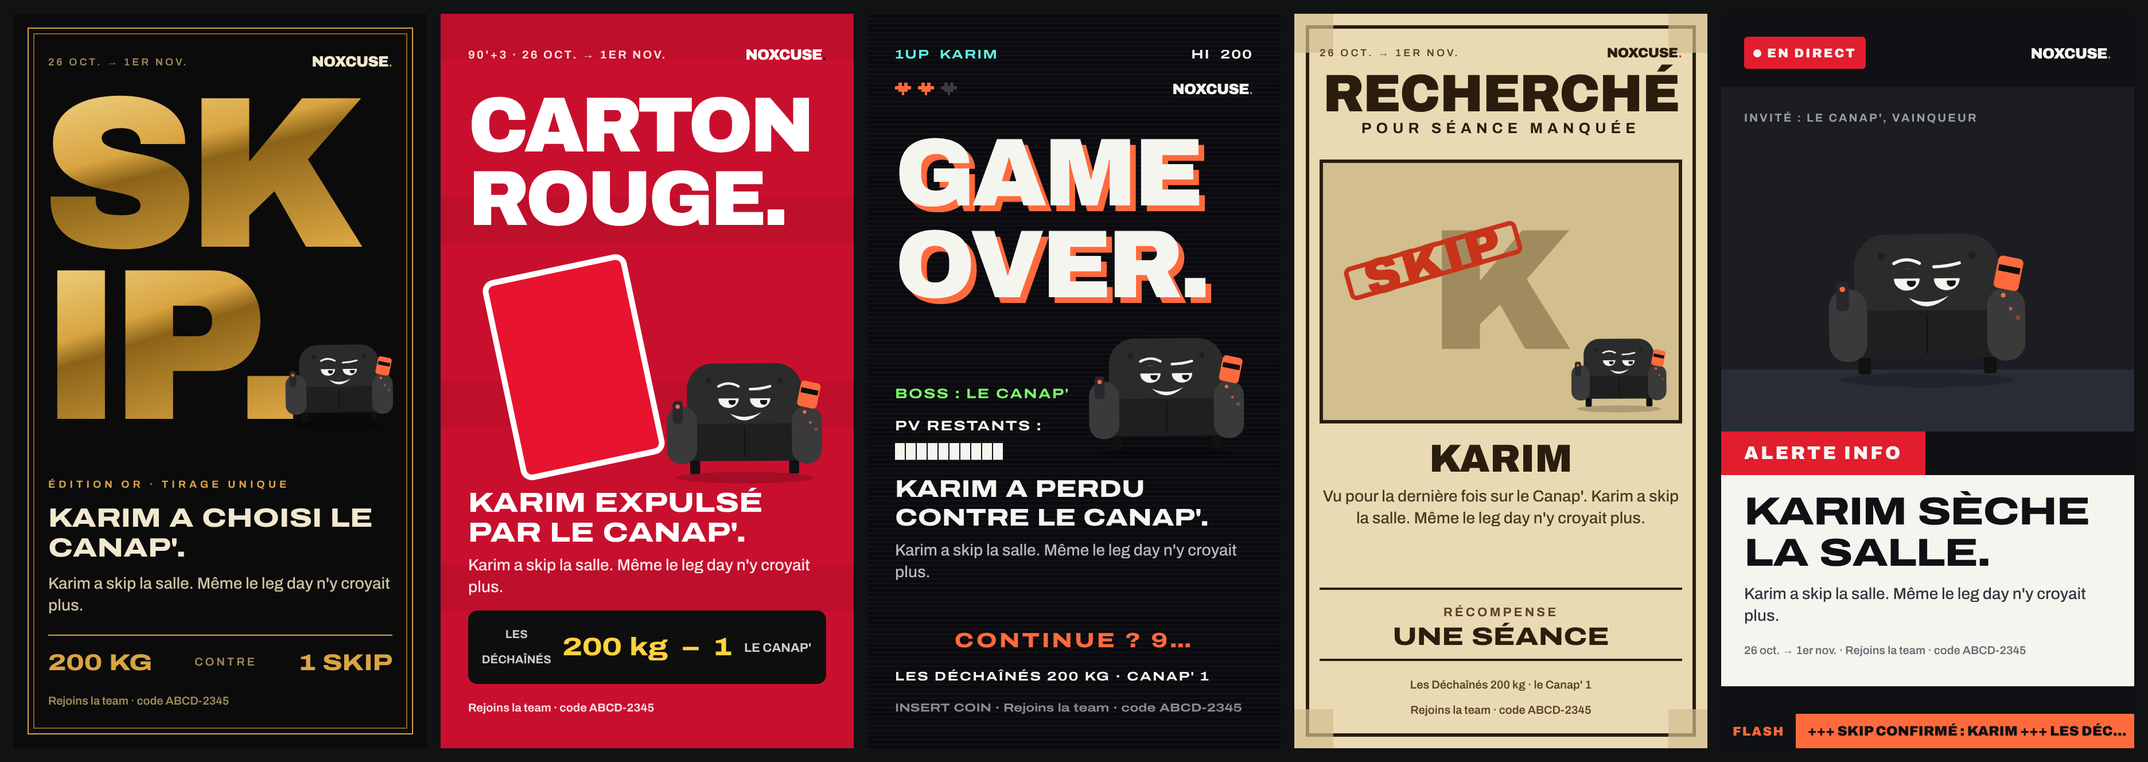
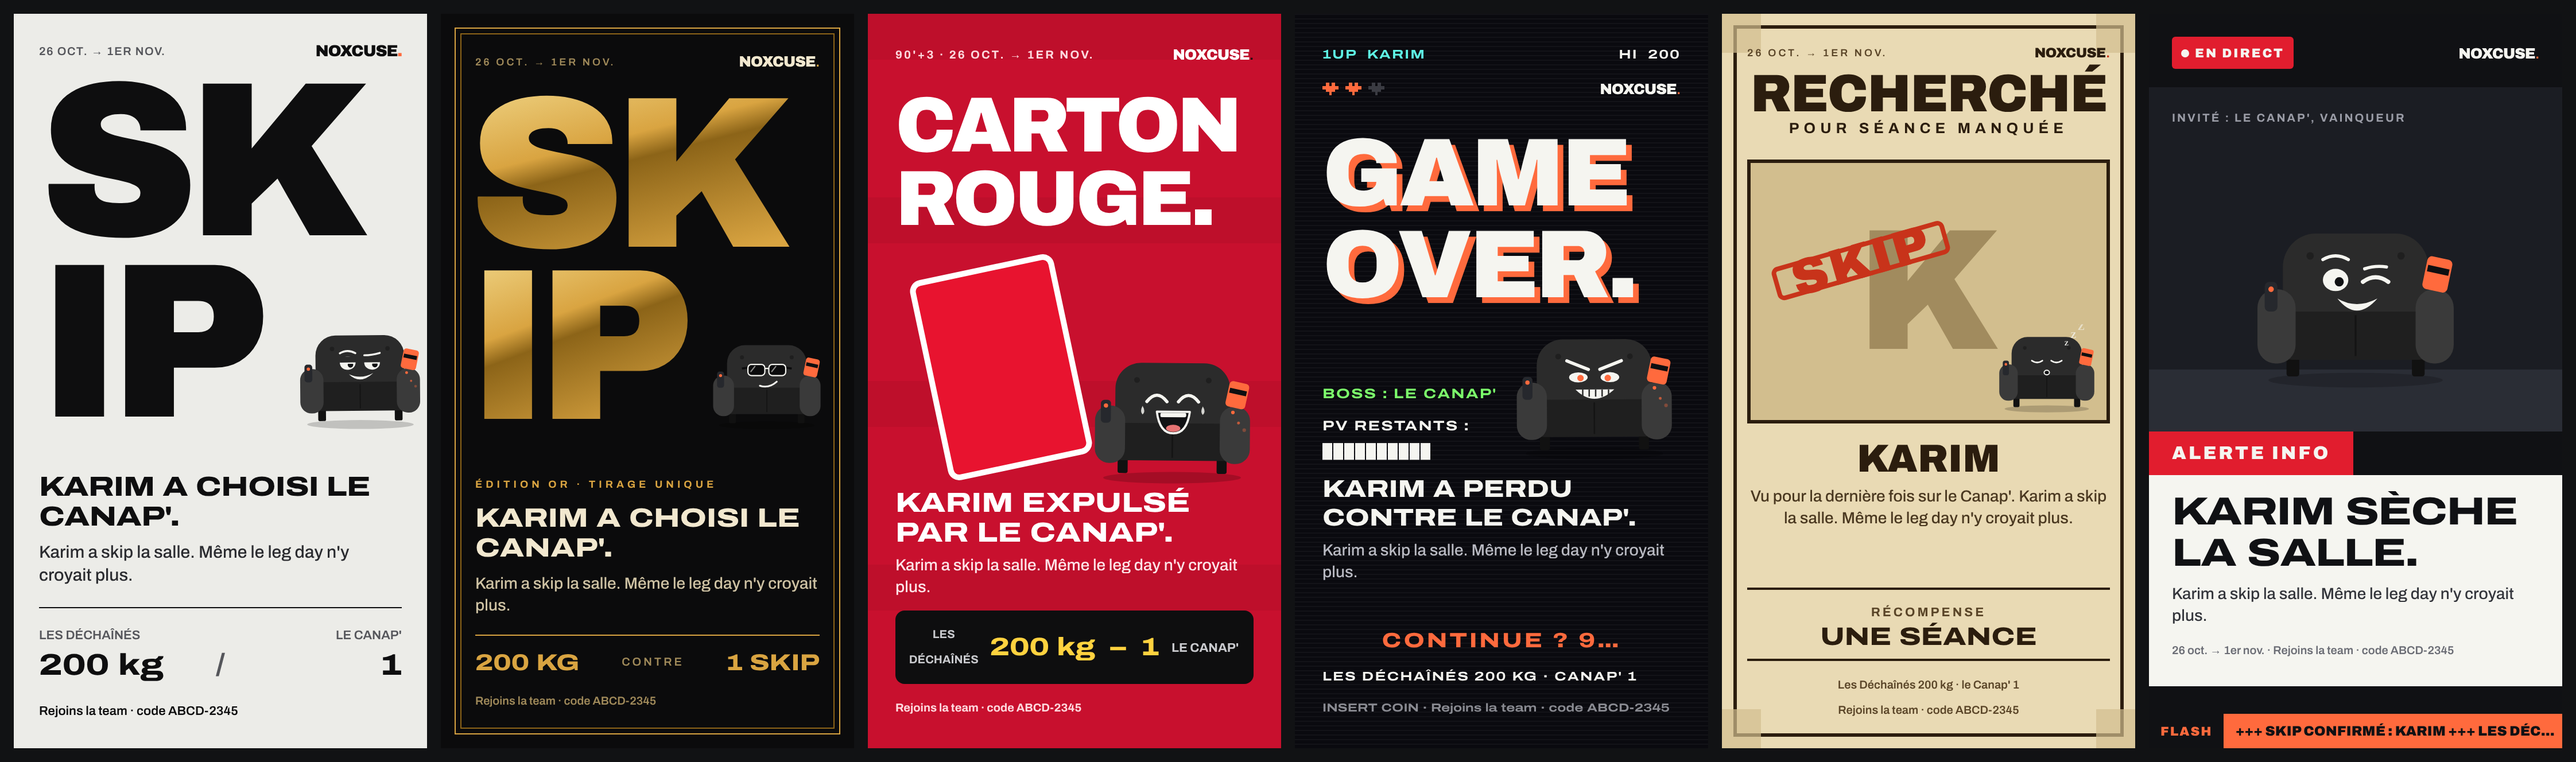
SKIP posters: drop the dot after IP, give each poster its own Canap' face
Five new Canap' moods (laughing, cool, evil, sleepy, wink) reusing the existing
body motions; ?style=moods on /dev-posters shows them all.

Claude-Session: https://claude.ai/code/session_01XQSCL7HTtEjkA8txYiEgZE

diff --git a/src/components/Canap.tsx b/src/components/Canap.tsx
@@ -19,9 +19,24 @@ import Animated, {
   withSpring,
   withTiming,
 } from 'react-native-reanimated';
-import Svg, { Circle, Ellipse, G, Line, Path, Rect } from 'react-native-svg';
+import Svg, { Circle, Ellipse, G, Line, Path, Rect, Text as SvgText } from 'react-native-svg';
 
-export type CanapMood = 'idle' | 'smug' | 'sad' | 'crushed';
+export type CanapMood =
+  'idle' | 'smug' | 'sad' | 'crushed' | 'laughing' | 'cool' | 'evil' | 'sleepy' | 'wink';
+
+/** How the body moves: the 4 original moods, and the new faces reuse one of them. */
+type Motion = 'idle' | 'smug' | 'sad' | 'crushed';
+const MOTION: Record<CanapMood, Motion> = {
+  idle: 'idle',
+  smug: 'smug',
+  sad: 'sad',
+  crushed: 'crushed',
+  laughing: 'smug',
+  cool: 'idle',
+  evil: 'smug',
+  sleepy: 'idle',
+  wink: 'idle',
+};
 
 const AnimatedRect = Animated.createAnimatedComponent(Rect);
 const AnimatedCircle = Animated.createAnimatedComponent(Circle);
@@ -31,6 +46,11 @@ const LABELS: Record<CanapMood, string> = {
   smug: "Le Canap' qui ricane parce que quelqu'un a skip",
   sad: "Le Canap' qui boude parce qu'un disque a été chargé",
   crushed: "Le Canap' écrasé par la barre de la team après un PR",
+  laughing: "Le Canap' mort de rire",
+  cool: "Le Canap' en lunettes de soleil, très content de lui",
+  evil: "Le Canap' en boss final, sourire diabolique",
+  sleepy: "Le Canap' qui dort, avec des Z au-dessus de lui",
+  wink: "Le Canap' qui fait un clin d'œil",
 };
 
 const VIEW_W = 240;
@@ -55,28 +75,33 @@ export function Canap({ mood, size = 240, style, accessible = true }: Props) {
 function CanapArt({ mood, width, height }: { mood: CanapMood; width: number; height: number }) {
   const reduced = useReducedMotion();
   const t = useSharedValue(0);
+  const motion = MOTION[mood];
 
   useEffect(() => {
     t.value = 0;
     if (reduced) {
-      if (mood === 'crushed') t.value = 1;
+      if (motion === 'crushed') t.value = 1;
       return;
     }
     const loop = (ms: number) =>
       withRepeat(withTiming(1, { duration: ms, easing: Easing.inOut(Easing.sin) }), -1, false);
-    if (mood === 'idle') t.value = loop(3200);
-    else if (mood === 'smug')
-      t.value = withRepeat(withTiming(1, { duration: 1100, easing: Easing.linear }), -1, false);
-    else if (mood === 'sad') t.value = loop(2600);
+    if (motion === 'idle') t.value = loop(mood === 'sleepy' ? 4200 : 3200);
+    else if (motion === 'smug')
+      t.value = withRepeat(
+        withTiming(1, { duration: mood === 'laughing' ? 800 : 1100, easing: Easing.linear }),
+        -1,
+        false,
+      );
+    else if (motion === 'sad') t.value = loop(2600);
     else t.value = withSpring(1, { damping: 6, stiffness: 180, mass: 0.6 });
-  }, [mood, reduced, t]);
+  }, [mood, motion, reduced, t]);
 
   // Body motion, pivoting near the feet (transform-origin 50% 92%).
   const body = useAnimatedStyle(() => {
     const v = t.value;
     const wave = Math.sin(v * Math.PI * 2); // 0 → 1 → 0 → -1 → 0
     const half = Math.sin(v * Math.PI); // 0 → 1 → 0
-    switch (mood) {
+    switch (motion) {
       case 'idle':
         return { transform: [{ scaleY: 1 + 0.035 * half }] };
       case 'smug': {
@@ -119,12 +144,16 @@ function CanapArt({ mood, width, height }: { mood: CanapMood; width: number; hei
   // Falling chip crumbs (smug) and chalk cloud (crushed).
   const fall = useSharedValue(0);
   useEffect(() => {
-    if (reduced || (mood !== 'smug' && mood !== 'crushed')) {
+    if (reduced || (motion !== 'smug' && motion !== 'crushed')) {
       fall.value = 0;
       return;
     }
-    fall.value = withRepeat(withTiming(1, { duration: mood === 'smug' ? 1100 : 1600 }), -1, false);
-  }, [fall, mood, reduced]);
+    fall.value = withRepeat(
+      withTiming(1, { duration: motion === 'smug' ? 1100 : 1600 }),
+      -1,
+      false,
+    );
+  }, [fall, motion, reduced]);
   const crumbA = useCrumb(fall, 0, 96);
   const crumbB = useCrumb(fall, 0.32, 98);
   const crumbC = useCrumb(fall, 0.64, 95);
@@ -184,7 +213,7 @@ function CanapArt({ mood, width, height }: { mood: CanapMood; width: number; hei
           {mood !== 'crushed' ? (
             <Rect x={20} y={80} width={14} height={32} rx={5} fill="#26282D" />
           ) : null}
-          {mood === 'idle' || mood === 'smug' ? (
+          {motion !== 'sad' && motion !== 'crushed' ? (
             <>
               <Circle cx={27} cy={88} r={3} fill="#FF6A3D" />
               <Rect
@@ -217,7 +246,7 @@ function CanapArt({ mood, width, height }: { mood: CanapMood; width: number; hei
               transform="rotate(80 212 150)"
             />
           ) : null}
-          {mood === 'smug' ? (
+          {motion === 'smug' ? (
             <G>
               <AnimatedCircle cx={204} r={2.5} fill="#FF6A3D" animatedProps={crumbA} />
               <AnimatedCircle cx={212} r={2} fill="#FF6A3D" animatedProps={crumbB} />
@@ -288,6 +317,14 @@ function Face({ mood, lidProps, lidColor }: FaceProps) {
       </G>
     );
   }
+  if (
+    mood === 'laughing' ||
+    mood === 'cool' ||
+    mood === 'evil' ||
+    mood === 'sleepy' ||
+    mood === 'wink'
+  )
+    return <ExtraFace mood={mood} lidColor={lidColor} />;
   // Half-closed eyes: white ellipse, pupil, eyelid band and lash line.
   const eyeY = mood === 'sad' ? 80 : 78;
   const pupil =
@@ -376,4 +413,128 @@ function Face({ mood, lidProps, lidColor }: FaceProps) {
       ) : null}
     </G>
   );
+}
+
+const INK = '#F5F5F0';
+const stroke = { stroke: INK, strokeWidth: 3.5, fill: 'none', strokeLinecap: 'round' } as const;
+
+/** Faces added for the premium SKIP posters: each poster has its own Canap'. */
+function ExtraFace({
+  mood,
+  lidColor,
+}: {
+  mood: 'laughing' | 'cool' | 'evil' | 'sleepy' | 'wink';
+  lidColor: string;
+}) {
+  switch (mood) {
+    case 'laughing':
+      // Eyes squeezed shut, mouth wide open, tears of laughter.
+      return (
+        <G>
+          <Path d="M84 82 Q98 64 112 82" {...stroke} strokeWidth={4.5} />
+          <Path d="M128 82 Q142 64 156 82" {...stroke} strokeWidth={4.5} />
+          <Path
+            d="M98 96 L144 96 Q140 126 121 126 Q102 126 98 96 Z"
+            fill="#111214"
+            stroke={INK}
+            strokeWidth={3}
+            strokeLinejoin="round"
+          />
+          <Rect x={103} y={97.5} width={36} height={6} rx={2} fill={INK} />
+          <Ellipse cx={121} cy={119} rx={10} ry={5} fill="#E57373" />
+          <Path d="M78 88 Q74 96 78 100 Q83 96 78 88 Z" fill={INK} opacity={0.85} />
+          <Path d="M162 88 Q158 96 162 100 Q167 96 162 88 Z" fill={INK} opacity={0.85} />
+        </G>
+      );
+    case 'cool':
+      // Sunglasses and a side smirk.
+      return (
+        <G>
+          <Line x1={70} y1={74} x2={84} y2={72} stroke="#0B0B0C" strokeWidth={4} />
+          <Line x1={170} y1={74} x2={156} y2={72} stroke="#0B0B0C" strokeWidth={4} />
+          <Rect
+            x={82}
+            y={66}
+            width={34}
+            height={22}
+            rx={7}
+            fill="#0B0B0C"
+            stroke={INK}
+            strokeWidth={2.5}
+          />
+          <Rect
+            x={124}
+            y={66}
+            width={34}
+            height={22}
+            rx={7}
+            fill="#0B0B0C"
+            stroke={INK}
+            strokeWidth={2.5}
+          />
+          <Line x1={116} y1={74} x2={124} y2={74} stroke={INK} strokeWidth={2.5} />
+          <Path
+            d="M88 80 L96 70"
+            stroke={INK}
+            strokeWidth={2.5}
+            strokeLinecap="round"
+            opacity={0.55}
+          />
+          <Path
+            d="M130 80 L138 70"
+            stroke={INK}
+            strokeWidth={2.5}
+            strokeLinecap="round"
+            opacity={0.55}
+          />
+          <Path d="M106 108 Q124 114 140 100" {...stroke} />
+        </G>
+      );
+    case 'evil':
+      // Final boss: V brows, narrowed orange eyes, toothy grin.
+      return (
+        <G>
+          <Path d="M82 58 L112 70" {...stroke} strokeWidth={4.5} />
+          <Path d="M158 58 L128 70" {...stroke} strokeWidth={4.5} />
+          <Ellipse cx={98} cy={81} rx={13} ry={7} fill={INK} />
+          <Ellipse cx={142} cy={81} rx={13} ry={7} fill={INK} />
+          <Circle cx={101} cy={82} r={4.5} fill="#FF6A3D" />
+          <Circle cx={139} cy={82} r={4.5} fill="#FF6A3D" />
+          <Path d="M94 98 Q120 124 148 98 Z" fill={INK} />
+          {[104, 113, 122, 131, 140].map((x) => (
+            <Line key={x} x1={x} y1={98} x2={x} y2={108} stroke={lidColor} strokeWidth={2} />
+          ))}
+        </G>
+      );
+    case 'sleepy':
+      // Fast asleep: closed eyes, little open mouth, Z Z Z.
+      return (
+        <G>
+          <Path d="M86 80 Q98 88 110 80" {...stroke} />
+          <Path d="M130 80 Q142 88 154 80" {...stroke} />
+          <Ellipse cx={120} cy={106} rx={6} ry={5} fill="#111214" stroke={INK} strokeWidth={2.5} />
+          <SvgText x={160} y={46} fill={INK} fontSize={14} fontWeight="900">
+            Z
+          </SvgText>
+          <SvgText x={174} y={30} fill={INK} fontSize={19} fontWeight="900" opacity={0.8}>
+            Z
+          </SvgText>
+          <SvgText x={190} y={12} fill={INK} fontSize={24} fontWeight="900" opacity={0.6}>
+            Z
+          </SvgText>
+        </G>
+      );
+    case 'wink':
+      // One eye open (raised brow), one winking, big grin: to the camera.
+      return (
+        <G>
+          <Path d="M84 56 Q98 48 112 56" {...stroke} />
+          <Ellipse cx={98} cy={78} rx={14} ry={12} fill={INK} />
+          <Circle cx={102} cy={80} r={5} fill="#111214" />
+          <Path d="M128 80 Q142 70 156 80" {...stroke} strokeWidth={4.5} />
+          <Path d="M130 66 Q142 62 154 64" {...stroke} />
+          <Path d="M100 98 Q121 124 144 98 Q121 110 100 98 Z" fill={INK} />
+        </G>
+      );
+  }
 }

diff --git a/src/app/dev-posters.tsx b/src/app/dev-posters.tsx
@@ -1,7 +1,9 @@
 import { Redirect, useLocalSearchParams } from 'expo-router';
 import { StyleSheet, View } from 'react-native';
 
+import { Canap, type CanapMood } from '@/components/Canap';
 import { SkipPoster } from '@/components/SkipPoster';
+import { Text } from '@/components/ui/Text';
 import { BreakingNewsPoster } from '@/components/posters/BreakingNewsPoster';
 import { GameOverPoster } from '@/components/posters/GameOverPoster';
 import { GoldPoster } from '@/components/posters/GoldPoster';
@@ -31,10 +33,12 @@ const POSTERS = {
   news: BreakingNewsPoster,
 } as const;
 
-/** Development only: one SKIP poster style with sample data (?style=…), for visual QA. */
+/** Development only: one SKIP poster style with sample data (?style=…, or ?style=moods for every
+ * Canap' face), for visual QA. */
 export default function DevPosters() {
   const style = useLocalSearchParams<{ style?: string }>().style ?? 'classic';
   if (!__DEV__) return <Redirect href="/" />;
+  if (style === 'moods') return <Moods />;
   const Poster = POSTERS[style as keyof typeof POSTERS] ?? SkipPoster;
   return (
     <View style={styles.screen}>
@@ -43,4 +47,33 @@ export default function DevPosters() {
   );
 }
 
-const styles = StyleSheet.create({ screen: { flex: 1, backgroundColor: colors.bg, padding: 15 } });
+const MOODS: CanapMood[] = [
+  'idle',
+  'smug',
+  'sad',
+  'crushed',
+  'laughing',
+  'cool',
+  'evil',
+  'sleepy',
+  'wink',
+];
+
+function Moods() {
+  return (
+    <View style={[styles.screen, styles.grid]}>
+      {MOODS.map((m) => (
+        <View key={m} style={styles.cell}>
+          <Canap mood={m} size={110} />
+          <Text>{m}</Text>
+        </View>
+      ))}
+    </View>
+  );
+}
+
+const styles = StyleSheet.create({
+  screen: { flex: 1, backgroundColor: colors.bg, padding: 15 },
+  grid: { flexDirection: 'row', flexWrap: 'wrap', gap: 6 },
+  cell: { width: 115, alignItems: 'center', paddingVertical: 6 },
+});

diff --git a/src/components/SkipPoster.tsx b/src/components/SkipPoster.tsx
@@ -18,7 +18,7 @@ type Props = {
   skips: number;
   inviteLabel: string;
   weekLabel: string;
-  /** Stamp animation ("SK" then "IP."). Off for the off-screen capture. */
+  /** Stamp animation ("SK" then "IP"). Off for the off-screen capture. */
   animated?: boolean;
   ref?: Ref<ComponentRef<typeof View>>;
 };
@@ -26,7 +26,7 @@ type Props = {
 const POSTER_INK = '#0E0E0F';
 const POSTER_GREY = '#55565B';
 
-// "SK" then "IP." drop like a rubber stamp: big and transparent → slammed in place.
+// "SK" then "IP" drop like a rubber stamp: big and transparent → slammed in place.
 const stamp = (delay: number) =>
   new Keyframe({
     0: { opacity: 0, transform: [{ scale: 1.8 }, { rotate: '-4deg' }] },
@@ -84,7 +84,7 @@ export function SkipPoster({
           SK
         </Animated.Text>
         <Animated.Text entering={enter(420)} style={[styles.letter, letters]}>
-          IP.
+          IP
         </Animated.Text>
       </View>
 

diff --git a/src/components/posters/WantedPoster.tsx b/src/components/posters/WantedPoster.tsx
@@ -76,7 +76,7 @@ export function WantedPoster({ ref, ...p }: PosterProps) {
       <View style={[styles.portrait, { height: 230 * u, marginTop: 16 * u, borderWidth: 3 * u }]}>
         <Text style={[styles.initial, { fontSize: 150 * u, lineHeight: 160 * u }]}>{initial}</Text>
         <View style={[styles.canap, { right: 6 * u, bottom: 4 * u }]}>
-          <Canap mood="smug" size={92 * u} accessible={false} />
+          <Canap mood="sleepy" size={92 * u} accessible={false} />
         </View>
         <Animated.View
           entering={stampIn}

diff --git a/src/components/posters/GoldPoster.tsx b/src/components/posters/GoldPoster.tsx
@@ -80,13 +80,13 @@ export function GoldPoster({ ref, ...p }: PosterProps) {
               fontSize={big}
               letterSpacing={-10 * u}
             >
-              IP.
+              IP
             </SvgText>
           </Svg>
         </Animated.View>
 
         <View style={[styles.canap, { right: 24 * u, top: 278 * u }]}>
-          <Canap mood="smug" size={104 * u} accessible={false} />
+          <Canap mood="cool" size={104 * u} accessible={false} />
         </View>
 
         <View style={{ flex: 1 }} />

diff --git a/src/components/posters/BreakingNewsPoster.tsx b/src/components/posters/BreakingNewsPoster.tsx
@@ -73,7 +73,7 @@ export function BreakingNewsPoster({ ref, ...p }: PosterProps) {
       <View style={[styles.studio, { height: 300 * u, marginTop: 16 * u }]}>
         <View style={[styles.desk, { height: 54 * u }]} />
         <View style={[styles.canap, { left: 0, right: 0, bottom: 34 * u }]}>
-          <Canap mood="smug" size={190 * u} accessible={false} />
+          <Canap mood="wink" size={190 * u} accessible={false} />
         </View>
         <Text
           style={[

diff --git a/src/components/posters/GameOverPoster.tsx b/src/components/posters/GameOverPoster.tsx
@@ -97,7 +97,7 @@ export function GameOverPoster({ ref, ...p }: PosterProps) {
             style={[styles.hud, { fontSize: 12 * u }]}
           >{`PV RESTANTS : ${'█'.repeat(10)}`}</Text>
         </View>
-        <Canap mood="smug" size={150 * u} accessible={false} />
+        <Canap mood="evil" size={150 * u} accessible={false} />
       </View>
 
       <Text

diff --git a/src/components/posters/RedCardPoster.tsx b/src/components/posters/RedCardPoster.tsx
@@ -80,7 +80,7 @@ export function RedCardPoster({ ref, ...p }: PosterProps) {
           ]}
         />
         <View style={[styles.canap, { right: -4 * u, bottom: 0 }]}>
-          <Canap mood="smug" size={150 * u} accessible={false} />
+          <Canap mood="laughing" size={150 * u} accessible={false} />
         </View>
       </View>
 
